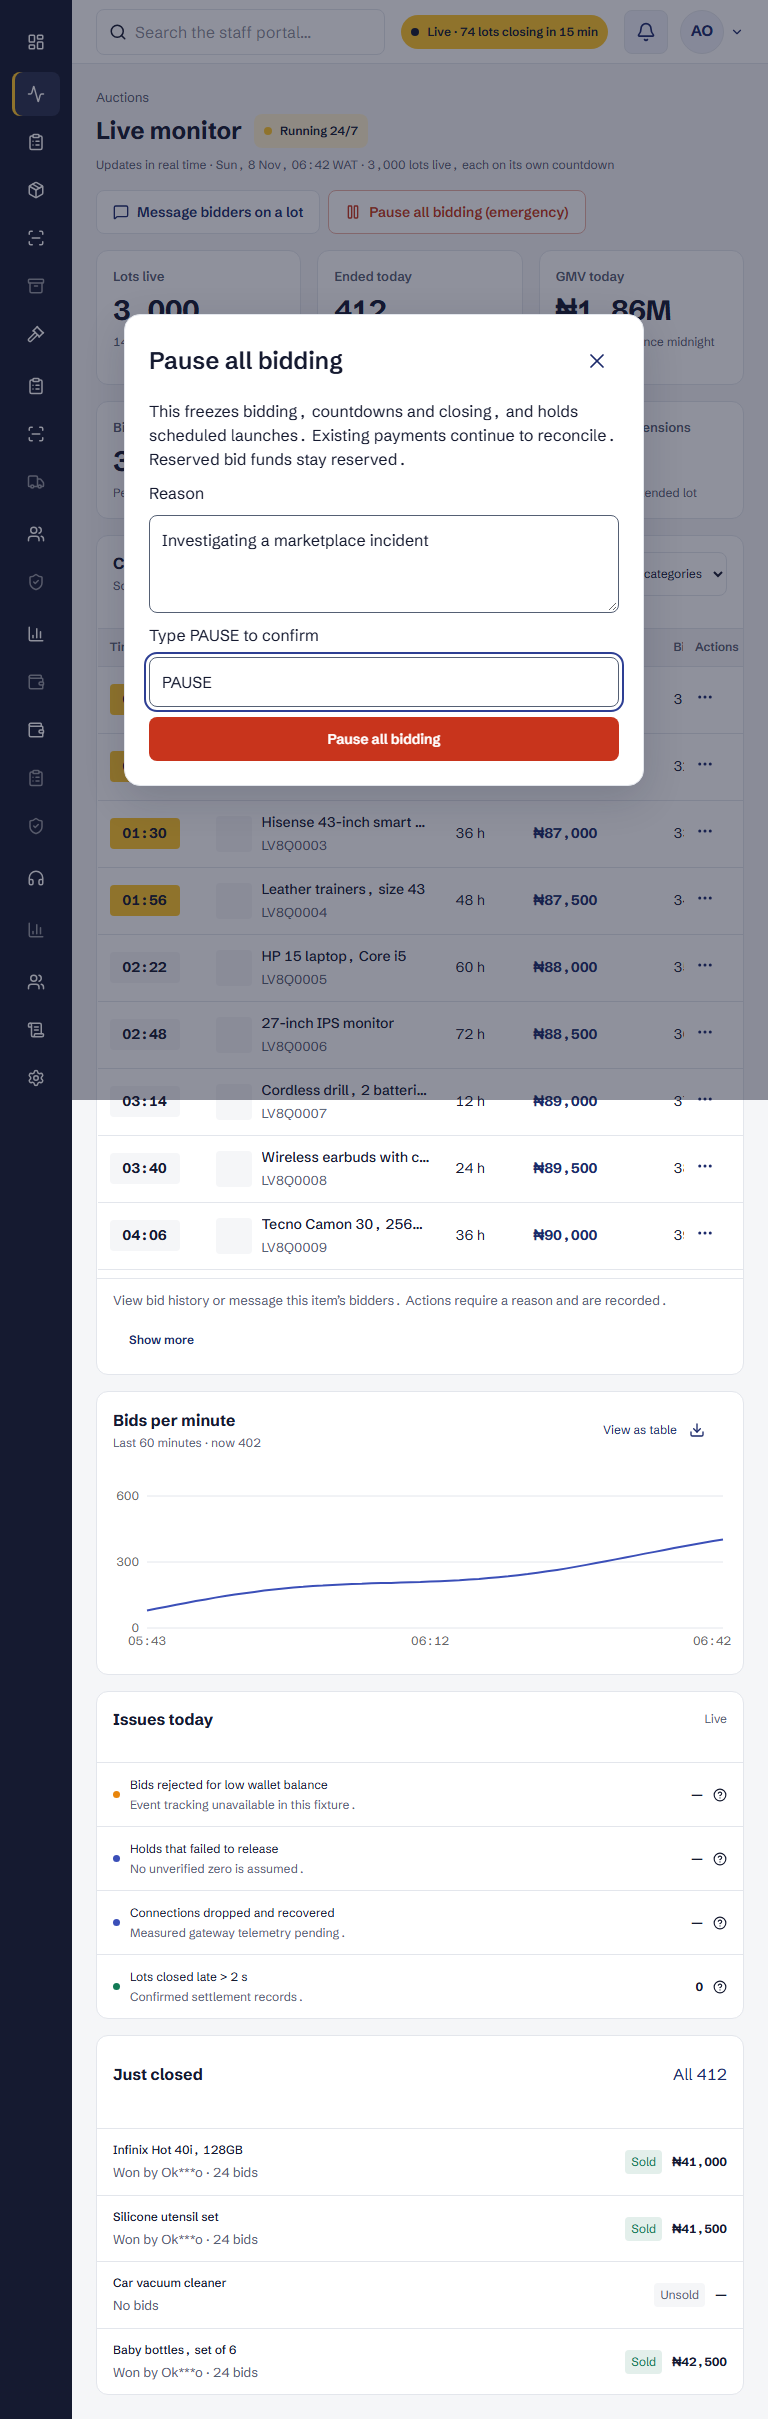
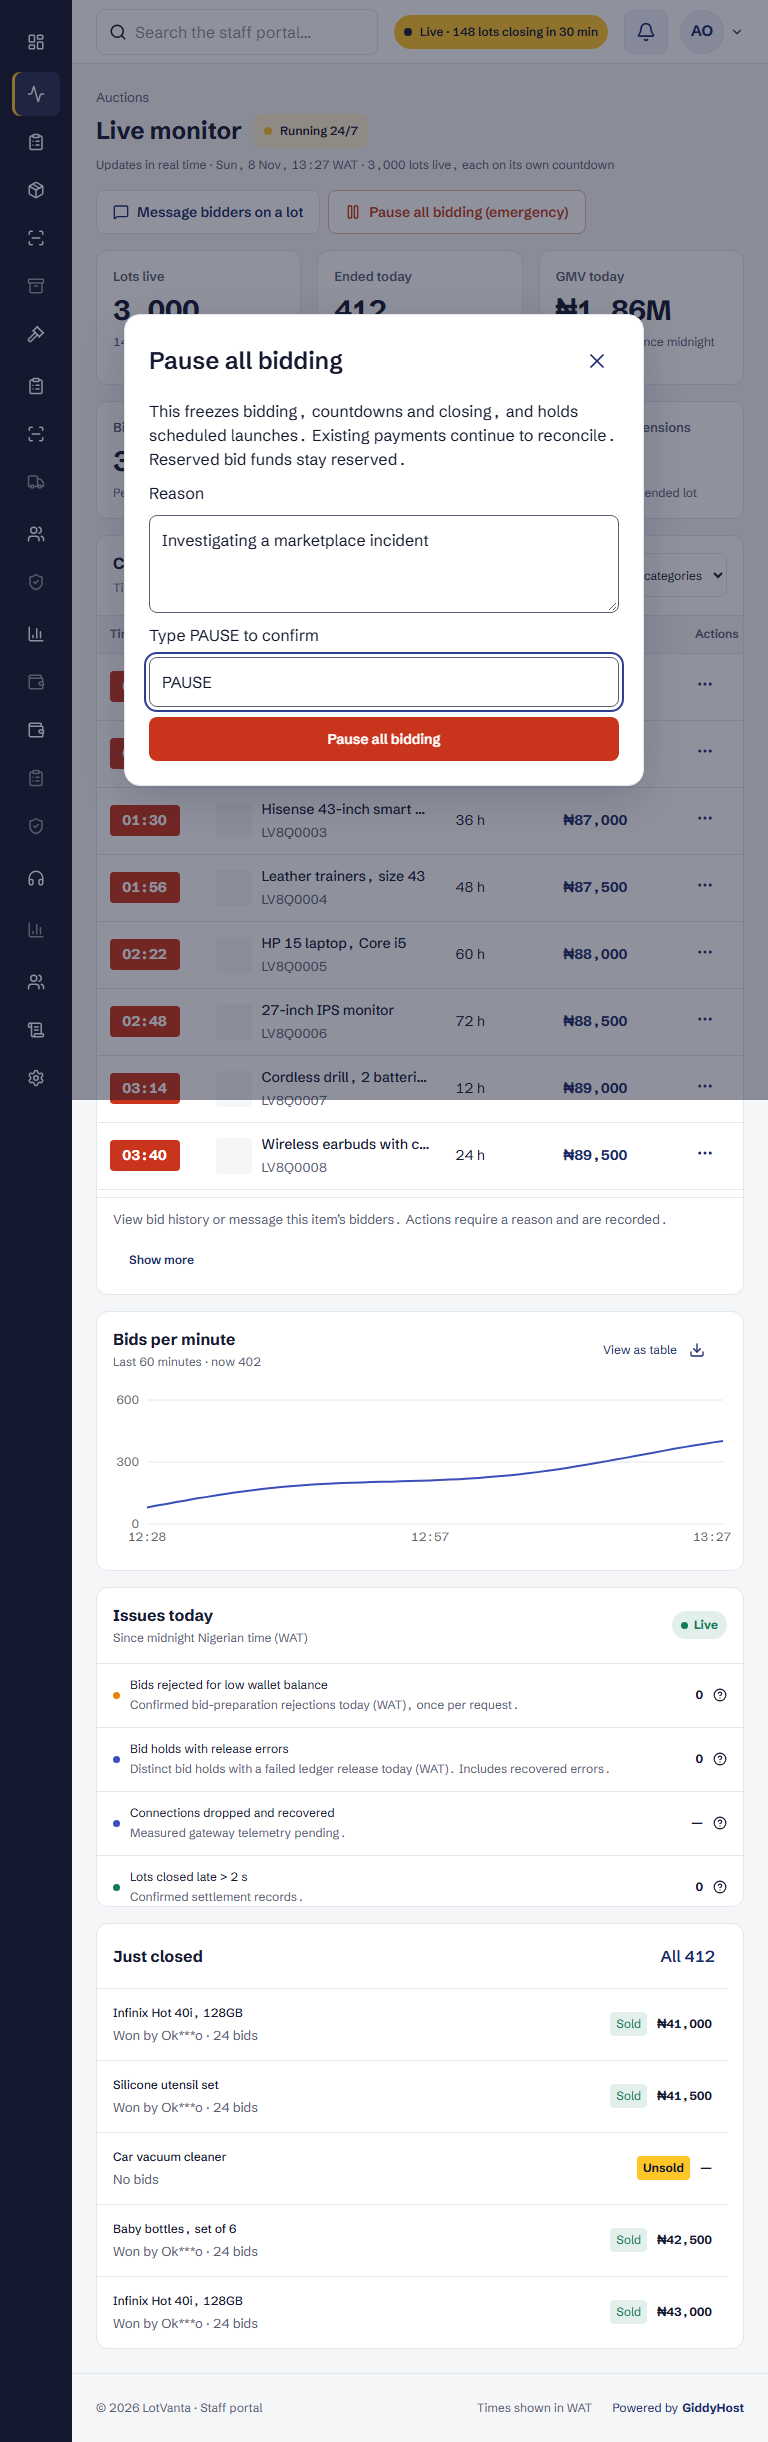
style(admin): distinguish paused countdown badges

diff --git a/tests/e2e/staff-live-monitor.spec.ts b/tests/e2e/staff-live-monitor.spec.ts
@@ -615,7 +615,9 @@ test('requires a reason and typed confirmation for pause, and offers resume afte
   await expect(
     page.getByRole('button', { name: 'Resume all bidding', exact: true }),
   ).toBeVisible({ timeout: 12000 });
-  const timer = page.locator('.lv-monitor-timer').first();
+  const timer = page.locator('.lv-monitor-table .lv-monitor-timer').first();
+  await expect(timer).toHaveClass(/is-paused/);
+  await expect(timer).toHaveCSS('font-size', '12px');
   const frozen = await timer.textContent();
   await page.waitForTimeout(1200);
   await expect(timer).toHaveText(frozen ?? '');
@@ -623,6 +625,14 @@ test('requires a reason and typed confirmation for pause, and offers resume afte
     .getByRole('dialog', { name: 'Live monitor details', exact: true })
     .getByRole('button', { name: 'Close dialog' })
     .click();
+  for (const width of [360, 768, 1280]) {
+    await page.setViewportSize({ width, height: 1100 });
+    await page.screenshot({
+      path: `docs/design/admin-live-monitor/paused-badge-${width}.png`,
+      fullPage: true,
+      animations: 'disabled',
+    });
+  }
   await page
     .getByRole('button', { name: 'Resume all bidding', exact: true })
     .click();

diff --git a/packages/ui/admin/live-monitor-view.tsx b/packages/ui/admin/live-monitor-view.tsx
@@ -335,7 +335,10 @@ const MonitorRow = memo(function MonitorRow({
     <tr className={flash ? 'lv-monitor-price-flash' : ''}>
       <td>
         <span
-          className={'lv-monitor-timer is-' + monitorTimerTone(seconds)}
+          className={
+            'lv-monitor-timer is-' +
+            (row.paused ? 'paused' : monitorTimerTone(seconds))
+          }
           aria-label={
             row.paused
               ? 'Paused · ' + monitorTimerText(seconds)

diff --git a/packages/ui/admin/live-monitor.css b/packages/ui/admin/live-monitor.css
@@ -306,6 +306,12 @@
   background: var(--color-outbid-600);
   color: var(--color-surface);
 }
+.lv-monitor-timer.is-paused {
+  background: var(--color-outbid-600);
+  color: var(--color-surface);
+  font-size: 12px;
+  line-height: 18px;
+}
 .lv-monitor-legend {
   display: inline-flex;
   align-items: center;

diff --git a/docs/design/admin-live-monitor/README.md b/docs/design/admin-live-monitor/README.md
@@ -15,3 +15,5 @@ The browser harness stubs staff authentication, transport and API responses with
 The approved reference is `../admin-live.png`. Keep existing destinations, use the LotVanta logo and retain truthful unavailable telemetry states. Global pause/resume and bidder messaging are now enabled; individual pause/extend/cancel remain unfinished. `pause-{360,768,1280}.png` and `message-{360,768,1280}.png` show the reasoned confirmation forms. These also use review fixtures; underlying money/dispatch behaviour has separate isolated database/Redis tests.
 
 `issues-{360,768,1280}.png` captures the completed daily issue card using synthetic browser fixtures. The targeted browser check changes the issue count without navigating or reloading, then opens its source explanation. Isolated Redis and funding/release tests verify real incident capture, retry deduplication, midnight rollover and unchanged financial outcomes. Local runtime verification checks the current projection heartbeat and all four real counters separately.
+
+Paused-badge captures at 360, 768 and 1280px show smaller red paused countdowns using synthetic browser fixtures.

diff --git a/docs/TASKS.md b/docs/TASKS.md
@@ -281,3 +281,5 @@ The admin is built in eight smaller tasks. Every one follows `docs/ADMIN_DESIGN.
 - T24 Membership plan (lower premium, perks)
 - T25 Buy-now and fast 60-second lots
 - T26 WhatsApp notifications
+
+**Paused countdown polish (2026-11-08):** Closing next uses a red badge with white 12px text for paused lots, independently of urgency. Targeted pause/resume browser check and responsive captures passed; T15d remains in progress.
